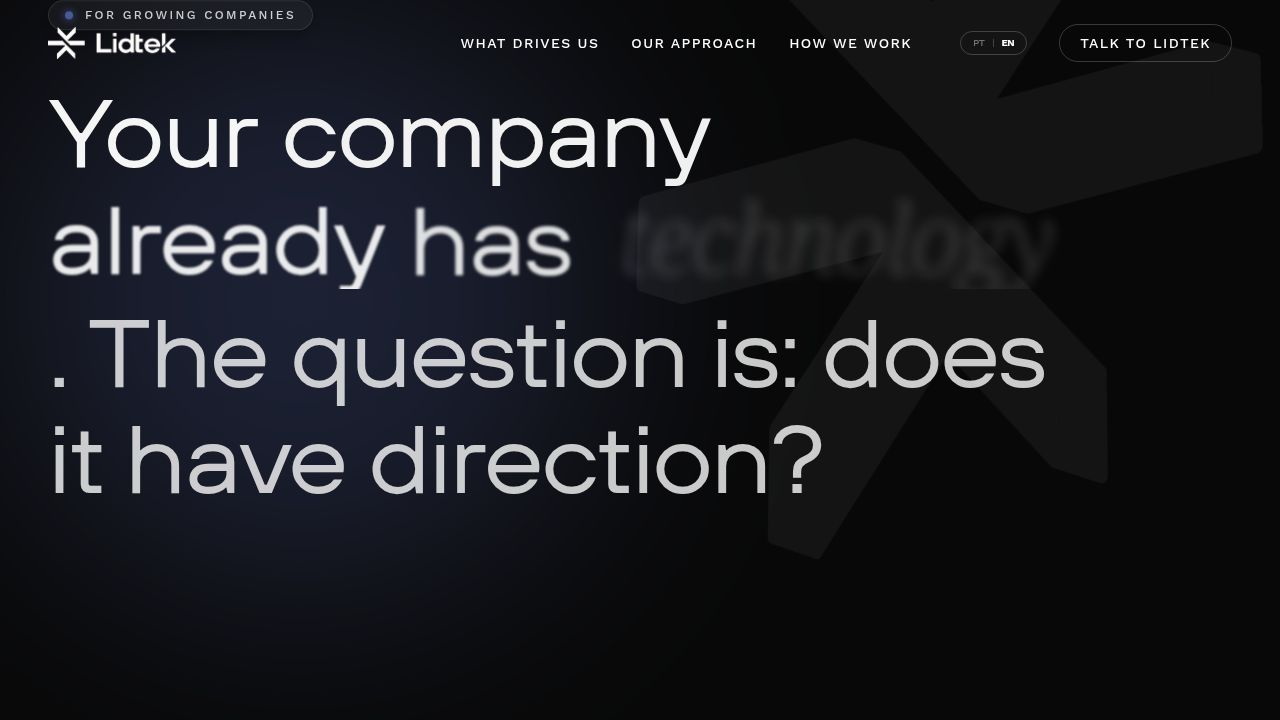
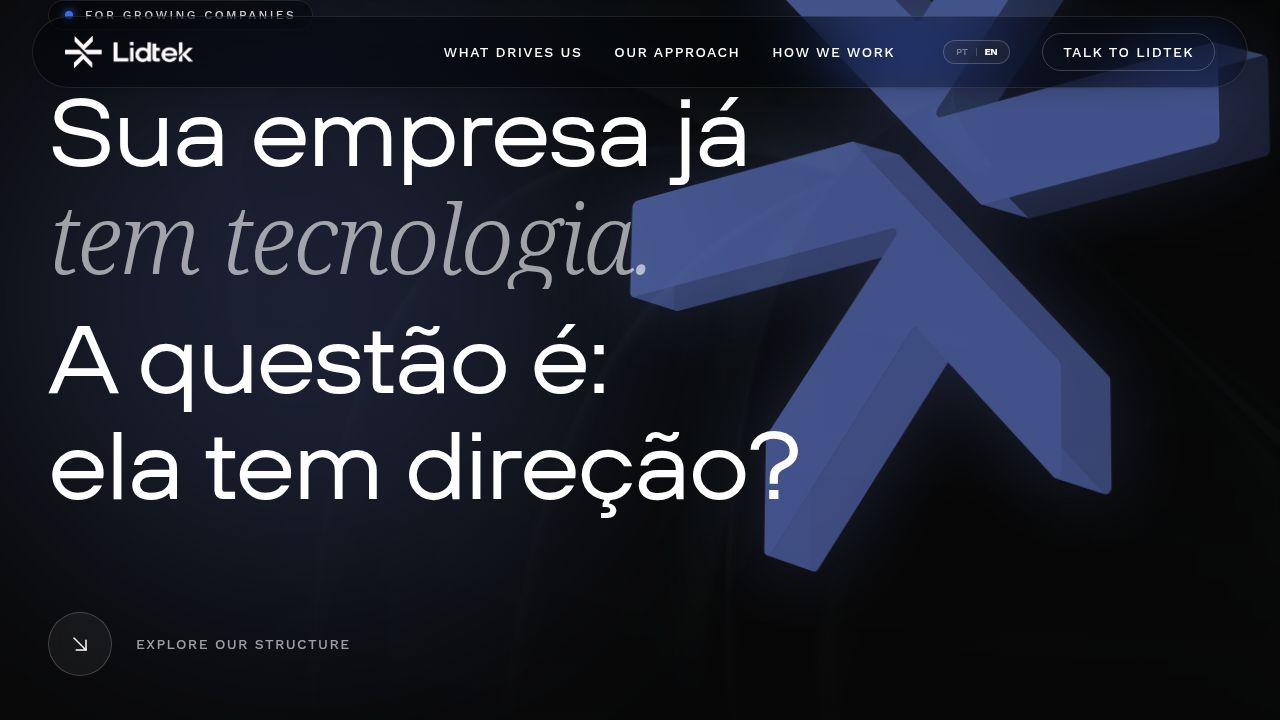
Apply glassmorphism style to create a modern iOS-inspired look
Introduce global utility classes for glassmorphism effects (`ios-glass`, `ios-glass-dark`). Update the Navbar to adopt a floating pill shape with glassmorphism. Modify Approach section cards and Hero tag to incorporate glassmorphism styles, enhancing visual appeal and depth.

Replit-Commit-Author: Agent
Replit-Commit-Session-Id: e5ad4372-2a69-44e9-811e-d083f3463026
Replit-Commit-Checkpoint-Type: full_checkpoint
Replit-Commit-Event-Id: cc0d4784-257e-414a-9a6b-168ef959e1bc
Replit-Commit-Screenshot-Url: https://storage.googleapis.com/screenshot-production-us-central1/1bd49003-f8b5-4081-a1ec-b8d74c53421b/e5ad4372-2a69-44e9-811e-d083f3463026/PHJvri7
Replit-Helium-Checkpoint-Created: true

Changed region(s): [[0.0312, 0.0, 1.0, 0.7944], [0.0312, 0.0, 0.25, 0.0917], [0.0938, 0.8861, 0.2812, 0.9167]]

diff --git a/client/src/components/layout/Navbar.tsx b/client/src/components/layout/Navbar.tsx
@@ -49,9 +49,12 @@ export function Navbar() {
   const navClass = isDark ? "text-white" : "text-black";
   const borderClass = isDark ? "border-white/20" : "border-black/20";
   const logoClass = isDark ? "" : "invert";
+  const glassClass = isDark 
+    ? "ios-glass-dark" 
+    : "ios-glass";
 
   return (
-    <nav className={`fixed top-0 left-0 right-0 z-50 px-6 py-6 md:px-12 flex items-center justify-between transition-colors duration-300 ${navClass}`}>
+    <nav className={`fixed top-4 left-1/2 -translate-x-1/2 w-[95%] max-w-7xl z-50 px-6 py-4 md:px-8 flex items-center justify-between transition-all duration-500 rounded-full ${navClass} ${glassClass}`}>
       <Link href="/" className="z-50 cursor-pointer">
         <img src={logoWhite} alt="Lidtek Logo" className={`h-6 md:h-8 w-auto transition-all duration-300 ${logoClass}`} />
       </Link>
@@ -61,7 +64,7 @@ export function Navbar() {
         <a href="#approach" className="hover:text-[#6580E1] transition-colors uppercase tracking-widest">{t("nav.approach")}</a>
         <a href="#model" className="hover:text-[#6580E1] transition-colors uppercase tracking-widest">{t("nav.model")}</a>
         
-        <div className={`flex items-center gap-2 border ${borderClass} rounded-full px-3 py-1 ml-4 transition-colors duration-300`}>
+        <div className={`flex items-center gap-2 border ${borderClass} rounded-full px-3 py-1 ml-4 transition-colors duration-300 backdrop-blur-md bg-white/5`}>
           <button 
             onClick={() => setLanguage("pt")}
             className={`text-[10px] cursor-pointer uppercase tracking-tighter transition-opacity ${language === "pt" ? "opacity-100 font-bold" : "opacity-40 hover:opacity-100"}`}

diff --git a/client/src/components/sections/Approach.tsx b/client/src/components/sections/Approach.tsx
@@ -58,7 +58,7 @@ export function Approach() {
               whileInView={{ opacity: 1, y: 0 }}
               viewport={{ once: true, margin: "-50px" }}
               transition={{ duration: 0.8, ease: [0.16, 1, 0.3, 1], delay: i * 0.1 }}
-              className="p-10 border border-black/[0.04] bg-white hover:bg-black/[0.02] transition-all duration-500 group relative overflow-hidden rounded-2xl shadow-sm hover:shadow-xl hover:-translate-y-2"
+              className="p-10 ios-glass hover:bg-white/90 transition-all duration-500 group relative overflow-hidden rounded-[2rem] hover:shadow-xl hover:-translate-y-2"
             >
               <div className="absolute top-0 left-0 w-full h-[2px] bg-primary/0 group-hover:bg-primary transition-colors duration-500" />
               <div className="text-black/30 group-hover:text-primary transition-colors duration-500 mb-8">{feature.icon}</div>

diff --git a/client/src/components/sections/Hero.tsx b/client/src/components/sections/Hero.tsx
@@ -90,7 +90,7 @@ export function Hero() {
           initial={{ opacity: 0, y: 20 }}
           animate={{ opacity: 1, y: 0 }}
           transition={{ duration: 0.8, ease: [0.16, 1, 0.3, 1], delay: 0.2 }}
-          className="flex items-center gap-3 border border-white/10 rounded-full px-4 py-1.5 backdrop-blur-md bg-white/5 shadow-lg shadow-black/20"
+          className="flex items-center gap-3 border border-white/10 rounded-full px-4 py-1.5 ios-glass-dark shadow-lg shadow-black/20"
         >
           <div className="w-2 h-2 rounded-full bg-primary animate-pulse shadow-[0_0_10px_hsl(var(--primary))]" />
           <span className="text-xs uppercase tracking-[0.2em] font-medium text-white/80">{t("hero.tag")}</span>

diff --git a/client/src/index.css b/client/src/index.css
@@ -182,6 +182,16 @@
 }
 
 @layer utilities {
+  .ios-glass {
+    @apply bg-white/70 backdrop-blur-[32px] saturate-[1.8] border border-white/40 shadow-sm;
+  }
+  .ios-glass-dark {
+    @apply bg-black/40 backdrop-blur-[32px] saturate-[1.8] border border-white/10 shadow-lg;
+  }
+  .ios-glass-dynamic {
+    @apply bg-background/60 backdrop-blur-[32px] saturate-[1.8] border border-foreground/10 shadow-sm;
+  }
+
   .text-balance {
     text-wrap: balance;
   }
